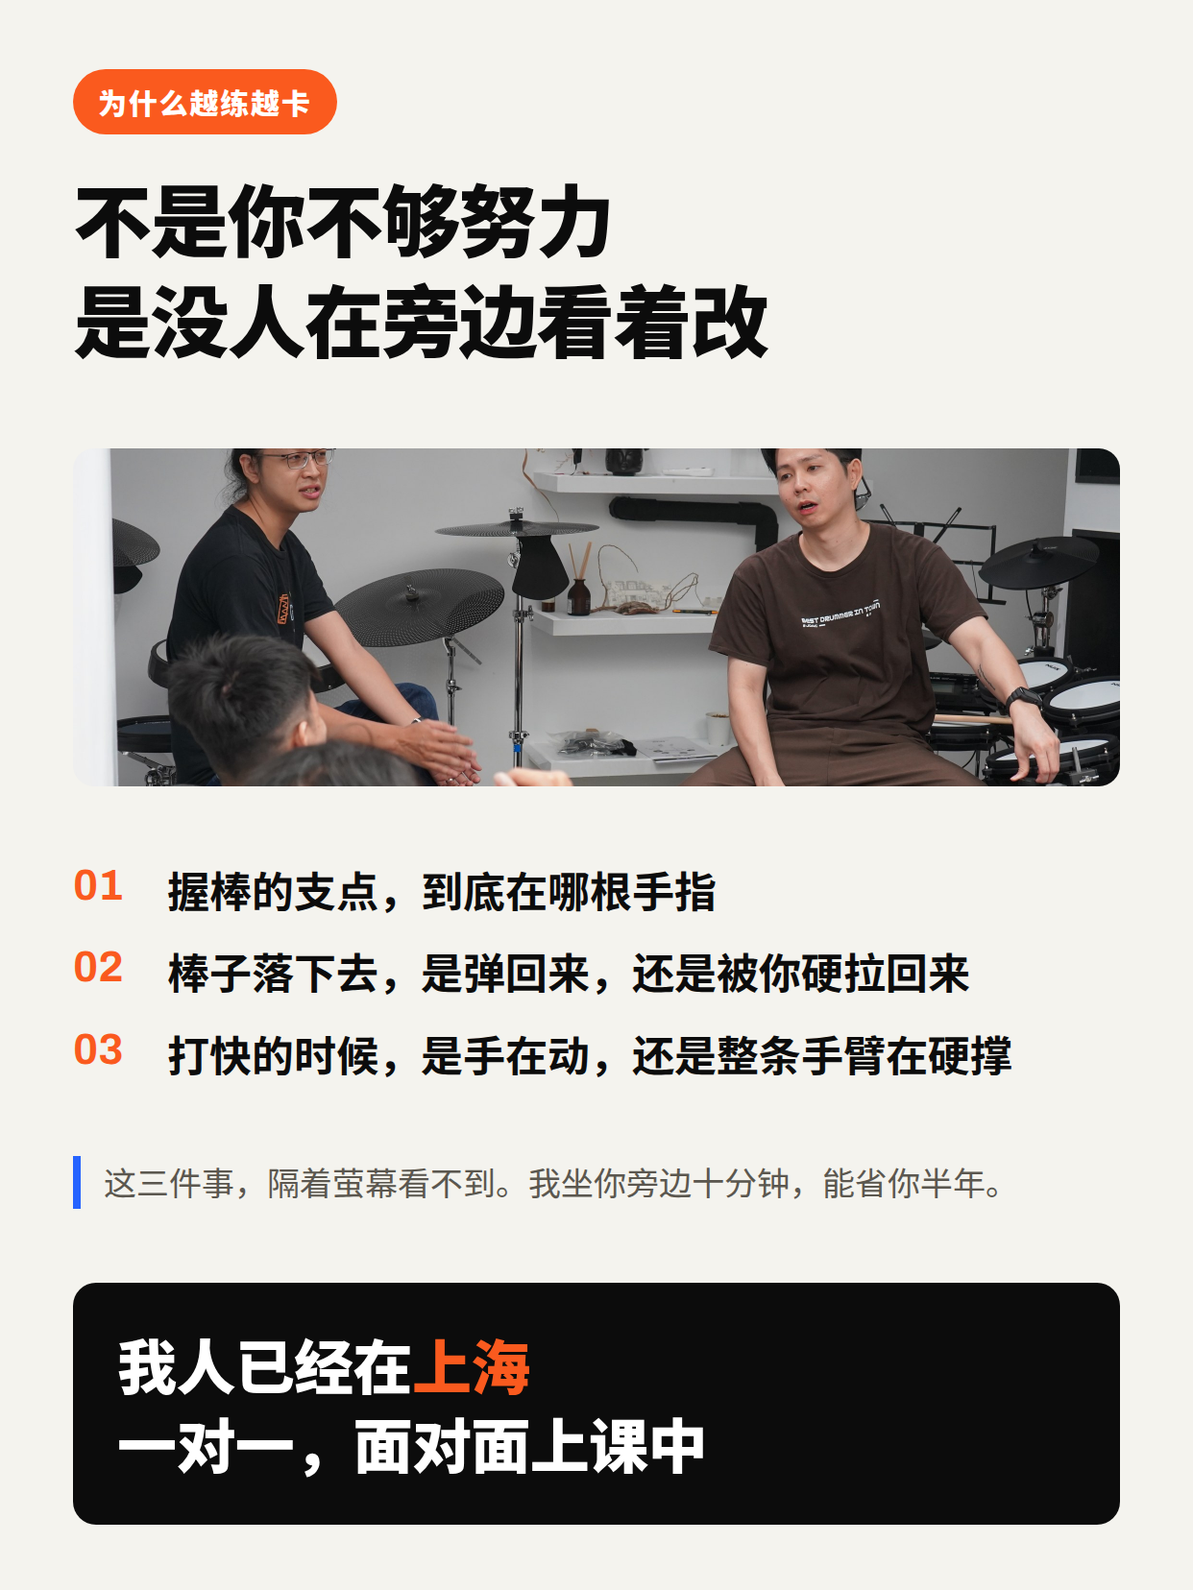
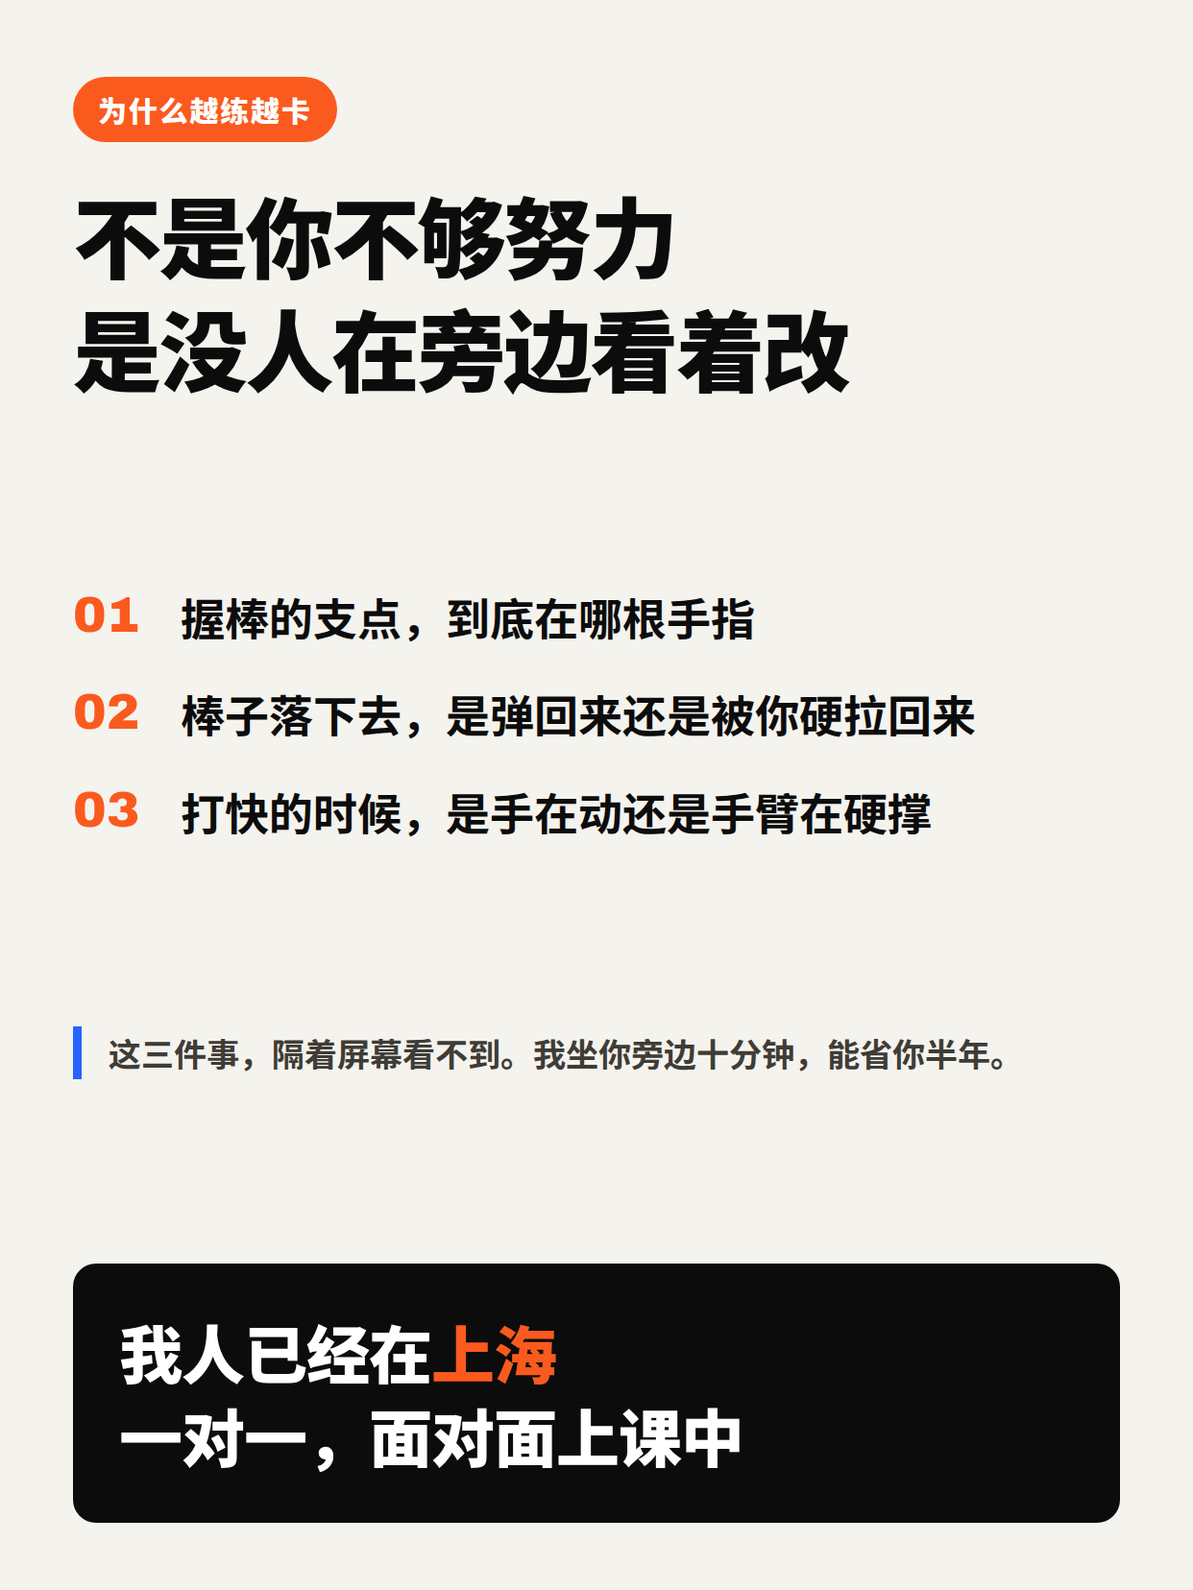
封面與第 2 張改成純大字報，拿掉現場照
- 第 1 張：不放照片，主標放到 200px，加 16 格節拍色塊當視覺元素
- 第 2 張：移除同一張現場照的橫幅，條列與 CTA 放大補位
- 收掉會斷行的字級、縮短 02/03 兩條敘述
- 簡體版「萤幕」改「屏幕」
- 刪除不再使用的 p1-class.jpg、p2-band.jpg

Claude-Session: https://claude.ai/code/session_01Fb2Sk9G4brwjhFQtaZJYY8

Changed region(s): [[0.0612, 0.2772, 0.9485, 0.6775], [0.0612, 0.7391, 0.9485, 0.9239], [0.0612, 0.0308, 0.7037, 0.2464]]

diff --git a/marketing/xiaohongshu/out/2-answer-sc.html b/marketing/xiaohongshu/out/2-answer-sc.html
@@ -26,19 +26,17 @@ body { width:1242px; height:1656px; overflow:hidden; background:#f4f3ee; color:#
       padding:.06em .12em .10em; border-radius:8px }
 .o  { color:#fa5a1e }
 
-.pg { padding:72px 76px 68px; justify-content:space-between }
-.pg h1 { font-size:82px; font-weight:900; line-height:1.28; letter-spacing:-.02em; margin-top:34px }
-.band { height:352px; border-radius:22px; overflow:hidden; margin-top:6px }
-.band img { width:100%; height:100%; object-fit:cover; display:block }
-.list { display:flex; flex-direction:column; gap:26px }
-.row { display:flex; align-items:flex-start; gap:24px }
-.row .n { font-family:"Arch",sans-serif; font-weight:700; font-size:44px; color:#fa5a1e;
-          line-height:1.15; flex:none; width:74px }
-.row .t { font-size:44px; font-weight:700; line-height:1.35 }
-.note { font-size:34px; line-height:1.6; color:#5b574f; font-weight:400;
-        border-left:8px solid #2563ff; padding-left:24px }
-.cta { background:#0c0c0c; color:#fff; border-radius:24px; padding:44px 46px;
-       font-size:62px; font-weight:900; line-height:1.32; letter-spacing:-.01em }
+.pg { padding:80px 76px 70px; justify-content:space-between }
+.pg h1 { font-size:92px; font-weight:900; line-height:1.28; letter-spacing:-.025em; margin-top:36px }
+.list { display:flex; flex-direction:column; gap:40px }
+.row { display:flex; align-items:flex-start; gap:26px }
+.row .n { font-family:"Arch",sans-serif; font-weight:900; font-size:52px; color:#fa5a1e;
+          line-height:1.12; flex:none; width:86px }
+.row .t { font-size:46px; font-weight:700; line-height:1.34 }
+.note { font-size:34px; line-height:1.62; color:#3f3c36; font-weight:700;
+        border-left:9px solid #2563ff; padding-left:28px }
+.cta { background:#0c0c0c; color:#fff; border-radius:24px; padding:48px 48px;
+       font-size:66px; font-weight:900; line-height:1.32; letter-spacing:-.015em }
 </style>
 
 <div class="pg">
@@ -46,9 +44,8 @@ body { width:1242px; height:1656px; overflow:hidden; background:#f4f3ee; color:#
     <div class="chip">为什么越练越卡</div>
     <h1>不是你不够努力<br>是没人在旁边看着改</h1>
   </div>
-  <div class="band"><img src="../p2-band.jpg" alt=""></div>
-  <div class="list"><div class="row"><div class="n">01</div><div class="t">握棒的支点，到底在哪根手指</div></div><div class="row"><div class="n">02</div><div class="t">棒子落下去，是弹回来，还是被你硬拉回来</div></div><div class="row"><div class="n">03</div><div class="t">打快的时候，是手在动，还是整条手臂在硬撑</div></div></div>
-  <div class="note">这三件事，隔着萤幕看不到。我坐你旁边十分钟，能省你半年。</div>
+  <div class="list"><div class="row"><div class="n">01</div><div class="t">握棒的支点，到底在哪根手指</div></div><div class="row"><div class="n">02</div><div class="t">棒子落下去，是弹回来还是被你硬拉回来</div></div><div class="row"><div class="n">03</div><div class="t">打快的时候，是手在动还是手臂在硬撑</div></div></div>
+  <div class="note">这三件事，隔着屏幕看不到。我坐你旁边十分钟，能省你半年。</div>
   <div class="cta">我人已经在<span class="o">上海</span><br>一对一，面对面上课中</div>
 </div>
 

diff --git a/marketing/xiaohongshu/out/2-answer-tc.html b/marketing/xiaohongshu/out/2-answer-tc.html
@@ -26,19 +26,17 @@ body { width:1242px; height:1656px; overflow:hidden; background:#f4f3ee; color:#
       padding:.06em .12em .10em; border-radius:8px }
 .o  { color:#fa5a1e }
 
-.pg { padding:72px 76px 68px; justify-content:space-between }
-.pg h1 { font-size:82px; font-weight:900; line-height:1.28; letter-spacing:-.02em; margin-top:34px }
-.band { height:352px; border-radius:22px; overflow:hidden; margin-top:6px }
-.band img { width:100%; height:100%; object-fit:cover; display:block }
-.list { display:flex; flex-direction:column; gap:26px }
-.row { display:flex; align-items:flex-start; gap:24px }
-.row .n { font-family:"Arch",sans-serif; font-weight:700; font-size:44px; color:#fa5a1e;
-          line-height:1.15; flex:none; width:74px }
-.row .t { font-size:44px; font-weight:700; line-height:1.35 }
-.note { font-size:34px; line-height:1.6; color:#5b574f; font-weight:400;
-        border-left:8px solid #2563ff; padding-left:24px }
-.cta { background:#0c0c0c; color:#fff; border-radius:24px; padding:44px 46px;
-       font-size:62px; font-weight:900; line-height:1.32; letter-spacing:-.01em }
+.pg { padding:80px 76px 70px; justify-content:space-between }
+.pg h1 { font-size:92px; font-weight:900; line-height:1.28; letter-spacing:-.025em; margin-top:36px }
+.list { display:flex; flex-direction:column; gap:40px }
+.row { display:flex; align-items:flex-start; gap:26px }
+.row .n { font-family:"Arch",sans-serif; font-weight:900; font-size:52px; color:#fa5a1e;
+          line-height:1.12; flex:none; width:86px }
+.row .t { font-size:46px; font-weight:700; line-height:1.34 }
+.note { font-size:34px; line-height:1.62; color:#3f3c36; font-weight:700;
+        border-left:9px solid #2563ff; padding-left:28px }
+.cta { background:#0c0c0c; color:#fff; border-radius:24px; padding:48px 48px;
+       font-size:66px; font-weight:900; line-height:1.32; letter-spacing:-.015em }
 </style>
 
 <div class="pg">
@@ -46,8 +44,7 @@ body { width:1242px; height:1656px; overflow:hidden; background:#f4f3ee; color:#
     <div class="chip">為什麼越練越卡</div>
     <h1>不是你不夠努力<br>是沒人在旁邊看著改</h1>
   </div>
-  <div class="band"><img src="../p2-band.jpg" alt=""></div>
-  <div class="list"><div class="row"><div class="n">01</div><div class="t">握棒的支點，到底在哪根手指</div></div><div class="row"><div class="n">02</div><div class="t">棒子落下去，是彈回來，還是被你硬拉回來</div></div><div class="row"><div class="n">03</div><div class="t">打快的時候，是手在動，還是整條手臂在硬撐</div></div></div>
+  <div class="list"><div class="row"><div class="n">01</div><div class="t">握棒的支點，到底在哪根手指</div></div><div class="row"><div class="n">02</div><div class="t">棒子落下去，是彈回來還是被你硬拉回來</div></div><div class="row"><div class="n">03</div><div class="t">打快的時候，是手在動還是手臂在硬撐</div></div></div>
   <div class="note">這三件事，隔著螢幕看不到。我坐你旁邊十分鐘，能省你半年。</div>
   <div class="cta">我人已經在<span class="o">上海</span><br>一對一，面對面上課中</div>
 </div>

diff --git a/marketing/xiaohongshu/out/1-cover-sc.html b/marketing/xiaohongshu/out/1-cover-sc.html
@@ -26,27 +26,29 @@ body { width:1242px; height:1656px; overflow:hidden; background:#f4f3ee; color:#
       padding:.06em .12em .10em; border-radius:8px }
 .o  { color:#fa5a1e }
 
-.shot { position:relative; height:860px; overflow:hidden }
-.shot img { width:100%; height:100%; object-fit:cover; display:block }
-.shot::after { content:""; position:absolute; inset:0;
-  background:linear-gradient(180deg,rgba(12,12,12,.30) 0%,rgba(12,12,12,0) 40%,rgba(12,12,12,.55) 100%) }
-.shot .chip { position:absolute; left:64px; top:56px; z-index:2 }
-.say { flex:1; background:#0c0c0c; color:#fff; padding:66px 64px 60px;
-       display:flex; flex-direction:column; justify-content:space-between }
-.kick { font-size:38px; font-weight:700; color:#b9b4a8; letter-spacing:.01em }
-.say h1 { font-size:132px; font-weight:900; line-height:1.30; letter-spacing:-.02em }
-.foot { display:flex; justify-content:space-between; align-items:flex-end;
-        font-size:36px; font-weight:700 }
-.foot span { color:#b9b4a8 }
-.foot b { color:#fa5a1e; font-size:42px }
+/* 純大字報，不放照片。靠字級落差跟橘色塊撐畫面，
+   節拍格子當視覺元素，比塞一張看不清楚的照片有力。 */
+.pg { padding:84px 76px 72px; justify-content:space-between }
+.pg h1 { font-size:200px; font-weight:900; line-height:1.24; letter-spacing:-.035em; margin-top:44px }
+.beats { display:flex; gap:13px }
+.beats i { width:44px; height:44px; border-radius:10px; background:#ddd9ce; display:block }
+.beats i.on { background:#fa5a1e }
+.kick { font-size:42px; font-weight:700; color:#5b574f; margin-top:34px }
+.foot { display:flex; justify-content:space-between; align-items:flex-end; font-size:38px;
+        font-weight:700; border-top:5px solid #0c0c0c; padding-top:32px }
+.foot span { color:#5b574f }
+.foot b { color:#fa5a1e; font-size:46px }
 </style>
 
 <div class="pg">
-  <div class="shot"><img src="../p1-class.jpg" alt=""><div class="chip">打鼓 · 卡关自救</div></div>
-  <div class="say">
-    <div class="kick">90% 的人以为是天分问题</div>
+  <div>
+    <div class="chip">打鼓 · 卡关自救</div>
     <h1>练了3年<br>还是只会<br><span class="hl">那几个节奏</span></h1>
-    <div class="foot"><span>其实大家都卡在同一件事</span><b>往右滑 →</b></div>
   </div>
+  <div>
+    <div class="beats"><i class="on"></i><i class=""></i><i class=""></i><i class=""></i><i class="on"></i><i class=""></i><i class=""></i><i class=""></i><i class="on"></i><i class=""></i><i class=""></i><i class=""></i><i class="on"></i><i class=""></i><i class=""></i><i class=""></i></div>
+    <div class="kick">90% 的人以为是天分问题</div>
+  </div>
+  <div class="foot"><span>其实大家都卡在同一件事</span><b>往右滑 →</b></div>
 </div>
 

diff --git a/marketing/xiaohongshu/out/1-cover-tc.html b/marketing/xiaohongshu/out/1-cover-tc.html
@@ -26,27 +26,29 @@ body { width:1242px; height:1656px; overflow:hidden; background:#f4f3ee; color:#
       padding:.06em .12em .10em; border-radius:8px }
 .o  { color:#fa5a1e }
 
-.shot { position:relative; height:860px; overflow:hidden }
-.shot img { width:100%; height:100%; object-fit:cover; display:block }
-.shot::after { content:""; position:absolute; inset:0;
-  background:linear-gradient(180deg,rgba(12,12,12,.30) 0%,rgba(12,12,12,0) 40%,rgba(12,12,12,.55) 100%) }
-.shot .chip { position:absolute; left:64px; top:56px; z-index:2 }
-.say { flex:1; background:#0c0c0c; color:#fff; padding:66px 64px 60px;
-       display:flex; flex-direction:column; justify-content:space-between }
-.kick { font-size:38px; font-weight:700; color:#b9b4a8; letter-spacing:.01em }
-.say h1 { font-size:132px; font-weight:900; line-height:1.30; letter-spacing:-.02em }
-.foot { display:flex; justify-content:space-between; align-items:flex-end;
-        font-size:36px; font-weight:700 }
-.foot span { color:#b9b4a8 }
-.foot b { color:#fa5a1e; font-size:42px }
+/* 純大字報，不放照片。靠字級落差跟橘色塊撐畫面，
+   節拍格子當視覺元素，比塞一張看不清楚的照片有力。 */
+.pg { padding:84px 76px 72px; justify-content:space-between }
+.pg h1 { font-size:200px; font-weight:900; line-height:1.24; letter-spacing:-.035em; margin-top:44px }
+.beats { display:flex; gap:13px }
+.beats i { width:44px; height:44px; border-radius:10px; background:#ddd9ce; display:block }
+.beats i.on { background:#fa5a1e }
+.kick { font-size:42px; font-weight:700; color:#5b574f; margin-top:34px }
+.foot { display:flex; justify-content:space-between; align-items:flex-end; font-size:38px;
+        font-weight:700; border-top:5px solid #0c0c0c; padding-top:32px }
+.foot span { color:#5b574f }
+.foot b { color:#fa5a1e; font-size:46px }
 </style>
 
 <div class="pg">
-  <div class="shot"><img src="../p1-class.jpg" alt=""><div class="chip">打鼓 · 卡關自救</div></div>
-  <div class="say">
-    <div class="kick">90% 的人以為是天分問題</div>
+  <div>
+    <div class="chip">打鼓 · 卡關自救</div>
     <h1>練了3年<br>還是只會<br><span class="hl">那幾個節奏</span></h1>
-    <div class="foot"><span>其實大家都卡在同一件事</span><b>往右滑 →</b></div>
   </div>
+  <div>
+    <div class="beats"><i class="on"></i><i class=""></i><i class=""></i><i class=""></i><i class="on"></i><i class=""></i><i class=""></i><i class=""></i><i class="on"></i><i class=""></i><i class=""></i><i class=""></i><i class="on"></i><i class=""></i><i class=""></i><i class=""></i></div>
+    <div class="kick">90% 的人以為是天分問題</div>
+  </div>
+  <div class="foot"><span>其實大家都卡在同一件事</span><b>往右滑 →</b></div>
 </div>
 

diff --git a/marketing/xiaohongshu/build.py b/marketing/xiaohongshu/build.py
@@ -33,10 +33,10 @@ TEXT = {
         "s2_h1": "不是你不够努力<br>是没人在旁边看着改",
         "s2_items": [
             "握棒的支点，到底在哪根手指",
-            "棒子落下去，是弹回来，还是被你硬拉回来",
-            "打快的时候，是手在动，还是整条手臂在硬撑",
+            "棒子落下去，是弹回来还是被你硬拉回来",
+            "打快的时候，是手在动还是手臂在硬撑",
         ],
-        "s2_note": "这三件事，隔着萤幕看不到。我坐你旁边十分钟，能省你半年。",
+        "s2_note": "这三件事，隔着屏幕看不到。我坐你旁边十分钟，能省你半年。",
         "s2_cta": '我人已经在<span class="o">上海</span><br>一对一，面对面上课中',
         # 第 3 張：自我介紹
         "s3_hi": "我是",
@@ -62,8 +62,8 @@ TEXT = {
         "s2_h1": "不是你不夠努力<br>是沒人在旁邊看著改",
         "s2_items": [
             "握棒的支點，到底在哪根手指",
-            "棒子落下去，是彈回來，還是被你硬拉回來",
-            "打快的時候，是手在動，還是整條手臂在硬撐",
+            "棒子落下去，是彈回來還是被你硬拉回來",
+            "打快的時候，是手在動還是手臂在硬撐",
         ],
         "s2_note": "這三件事，隔著螢幕看不到。我坐你旁邊十分鐘，能省你半年。",
         "s2_cta": '我人已經在<span class="o">上海</span><br>一對一，面對面上課中',
@@ -110,46 +110,46 @@ body { width:1242px; height:1656px; overflow:hidden; background:#f4f3ee; color:#
 """
 
 S1 = """
-.shot { position:relative; height:860px; overflow:hidden }
-.shot img { width:100%; height:100%; object-fit:cover; display:block }
-.shot::after { content:""; position:absolute; inset:0;
-  background:linear-gradient(180deg,rgba(12,12,12,.30) 0%,rgba(12,12,12,0) 40%,rgba(12,12,12,.55) 100%) }
-.shot .chip { position:absolute; left:64px; top:56px; z-index:2 }
-.say { flex:1; background:#0c0c0c; color:#fff; padding:66px 64px 60px;
-       display:flex; flex-direction:column; justify-content:space-between }
-.kick { font-size:38px; font-weight:700; color:#b9b4a8; letter-spacing:.01em }
-.say h1 { font-size:132px; font-weight:900; line-height:1.30; letter-spacing:-.02em }
-.foot { display:flex; justify-content:space-between; align-items:flex-end;
-        font-size:36px; font-weight:700 }
-.foot span { color:#b9b4a8 }
-.foot b { color:#fa5a1e; font-size:42px }
+/* 純大字報，不放照片。靠字級落差跟橘色塊撐畫面，
+   節拍格子當視覺元素，比塞一張看不清楚的照片有力。 */
+.pg { padding:84px 76px 72px; justify-content:space-between }
+.pg h1 { font-size:200px; font-weight:900; line-height:1.24; letter-spacing:-.035em; margin-top:44px }
+.beats { display:flex; gap:13px }
+.beats i { width:44px; height:44px; border-radius:10px; background:#ddd9ce; display:block }
+.beats i.on { background:#fa5a1e }
+.kick { font-size:42px; font-weight:700; color:#5b574f; margin-top:34px }
+.foot { display:flex; justify-content:space-between; align-items:flex-end; font-size:38px;
+        font-weight:700; border-top:5px solid #0c0c0c; padding-top:32px }
+.foot span { color:#5b574f }
+.foot b { color:#fa5a1e; font-size:46px }
 """
 
 S1_BODY = """
 <div class="pg">
-  <div class="shot"><img src="../p1-class.jpg" alt=""><div class="chip">{s1_chip}</div></div>
-  <div class="say">
-    <div class="kick">{s1_kicker}</div>
+  <div>
+    <div class="chip">{s1_chip}</div>
     <h1>{s1_h1}</h1>
-    <div class="foot"><span>{s1_foot_l}</span><b>{s1_foot_r}</b></div>
   </div>
+  <div>
+    <div class="beats">{beats}</div>
+    <div class="kick">{s1_kicker}</div>
+  </div>
+  <div class="foot"><span>{s1_foot_l}</span><b>{s1_foot_r}</b></div>
 </div>
 """
 
 S2 = """
-.pg { padding:72px 76px 68px; justify-content:space-between }
-.pg h1 { font-size:82px; font-weight:900; line-height:1.28; letter-spacing:-.02em; margin-top:34px }
-.band { height:352px; border-radius:22px; overflow:hidden; margin-top:6px }
-.band img { width:100%; height:100%; object-fit:cover; display:block }
-.list { display:flex; flex-direction:column; gap:26px }
-.row { display:flex; align-items:flex-start; gap:24px }
-.row .n { font-family:"Arch",sans-serif; font-weight:700; font-size:44px; color:#fa5a1e;
-          line-height:1.15; flex:none; width:74px }
-.row .t { font-size:44px; font-weight:700; line-height:1.35 }
-.note { font-size:34px; line-height:1.6; color:#5b574f; font-weight:400;
-        border-left:8px solid #2563ff; padding-left:24px }
-.cta { background:#0c0c0c; color:#fff; border-radius:24px; padding:44px 46px;
-       font-size:62px; font-weight:900; line-height:1.32; letter-spacing:-.01em }
+.pg { padding:80px 76px 70px; justify-content:space-between }
+.pg h1 { font-size:92px; font-weight:900; line-height:1.28; letter-spacing:-.025em; margin-top:36px }
+.list { display:flex; flex-direction:column; gap:40px }
+.row { display:flex; align-items:flex-start; gap:26px }
+.row .n { font-family:"Arch",sans-serif; font-weight:900; font-size:52px; color:#fa5a1e;
+          line-height:1.12; flex:none; width:86px }
+.row .t { font-size:46px; font-weight:700; line-height:1.34 }
+.note { font-size:34px; line-height:1.62; color:#3f3c36; font-weight:700;
+        border-left:9px solid #2563ff; padding-left:28px }
+.cta { background:#0c0c0c; color:#fff; border-radius:24px; padding:48px 48px;
+       font-size:66px; font-weight:900; line-height:1.32; letter-spacing:-.015em }
 """
 
 S2_BODY = """
@@ -158,7 +158,6 @@ S2_BODY = """
     <div class="chip">{s2_chip}</div>
     <h1>{s2_h1}</h1>
   </div>
-  <div class="band"><img src="../p2-band.jpg" alt=""></div>
   <div class="list">{s2_rows}</div>
   <div class="note">{s2_note}</div>
   <div class="cta">{s2_cta}</div>
@@ -218,8 +217,10 @@ def render_html(lang):
     base = BASE.replace("{cjk}", CJK[lang])
     pages = {}
 
+    # 16 格節拍，每拍第一格亮橘色
+    beats = "".join(f'<i class="{"on" if i % 4 == 0 else ""}"></i>' for i in range(16))
     pages["1-cover"] = PAGE.format(
-        title=f"1 封面 ({lang})", base=base, css=S1, body=S1_BODY.format(**t)
+        title=f"1 封面 ({lang})", base=base, css=S1, body=S1_BODY.format(beats=beats, **t)
     )
 
     rows = "".join(

diff --git a/marketing/xiaohongshu/README.md b/marketing/xiaohongshu/README.md
@@ -8,7 +8,7 @@
 
 | 順序 | 檔案 | 任務 |
 | --- | --- | --- |
-| 1 | `out/1-cover-sc.png` | 封面。上照片下黑底大字報，只講一句痛點，3 秒內要被看懂 |
+| 1 | `out/1-cover-sc.png` | 封面。純大字報不放照片，只講一句痛點，3 秒內要被看懂 |
 | 2 | `out/2-answer-sc.png` | 解答。三個「線上看不到」的細節 ＋ 我已經在上海上課中 |
 | 3 | `out/3-about-sc.png` | 自介。大字、少小字、不放 logo |
 
@@ -18,7 +18,8 @@
 ## 為什麼這樣排
 
 - 3:4 直式在資訊流佔屏最大，比橫版多約 4 成面積
-- 封面走「痛點＋結果」公式，視覺衝擊優先於資訊量；真實照片比精修圖有效
+- 封面走「痛點＋結果」公式，視覺衝擊優先於資訊量。這一組刻意不放照片：
+  縮圖只有指甲大，一句超大字比一張看不清楚的現場照更能停住手指
 - 輪播用「痛點共感 → 解法 → 信任」三層，最後才給行動
 - 不放品牌 logo：廣告感越低越好，讓它看起來像分享不像投放
 
@@ -43,8 +44,12 @@ cd marketing/xiaohongshu && python3 build.py    # 六張一次畫完，輸出到
 
 | 檔案 | 來源 |
 | --- | --- |
-| `p1-class.jpg` | 工作坊現場（封面上半） |
-| `p2-band.jpg` | 同場景，第 2 張的橫幅 |
-| `p3-portrait.jpg` | 人像（第 3 張自介） |
+| `p3-portrait.jpg` | Jacob 本人照，裁自官網 coachpage 的 MEET JACOB 區塊 |
+| `fonts/NotoSansSC-*.ttf` | 簡體版用 |
+| `fonts/NotoSansTC-*.ttf` | 繁體版用 |
+| `fonts/Archivo-*.ttf` | 數字與英文 |
+
+第 1、2 張目前不放照片。之後若要放，記得**只用有 Jacob 本人的照片**——
+官網那些工作坊合照裡也有其他教練與學員，別隨手抓。
 
 色票沿用 `jdac-coachpage.js`：米白 `#f4f3ee`、墨 `#0c0c0c`、藍 `#2563ff`、橘 `#fa5a1e`。

diff --git a/marketing/xiaohongshu/coach-offline-copy.md b/marketing/xiaohongshu/coach-offline-copy.md
@@ -33,11 +33,11 @@
 不是天分问题，是没人在旁边看着改。
 
 线上课我做很多年了，该练什么、按什么顺序练、什么时候可以开始学歌，这套系统是有效的，我到现在还在用。
-但有三件事，隔着萤幕真的看不到：
+但有三件事，隔着屏幕真的看不到：
 
 01 握棒的支点，到底在哪根手指
 02 棒子落下去，是弹回来，还是被你硬拉回来
-03 打快的时候，是手在动，还是整条手臂在硬撑
+03 打快的时候，是手在动，还是手臂在硬撑
 
 这三件事，我坐你旁边十分钟，能省你半年。
 
